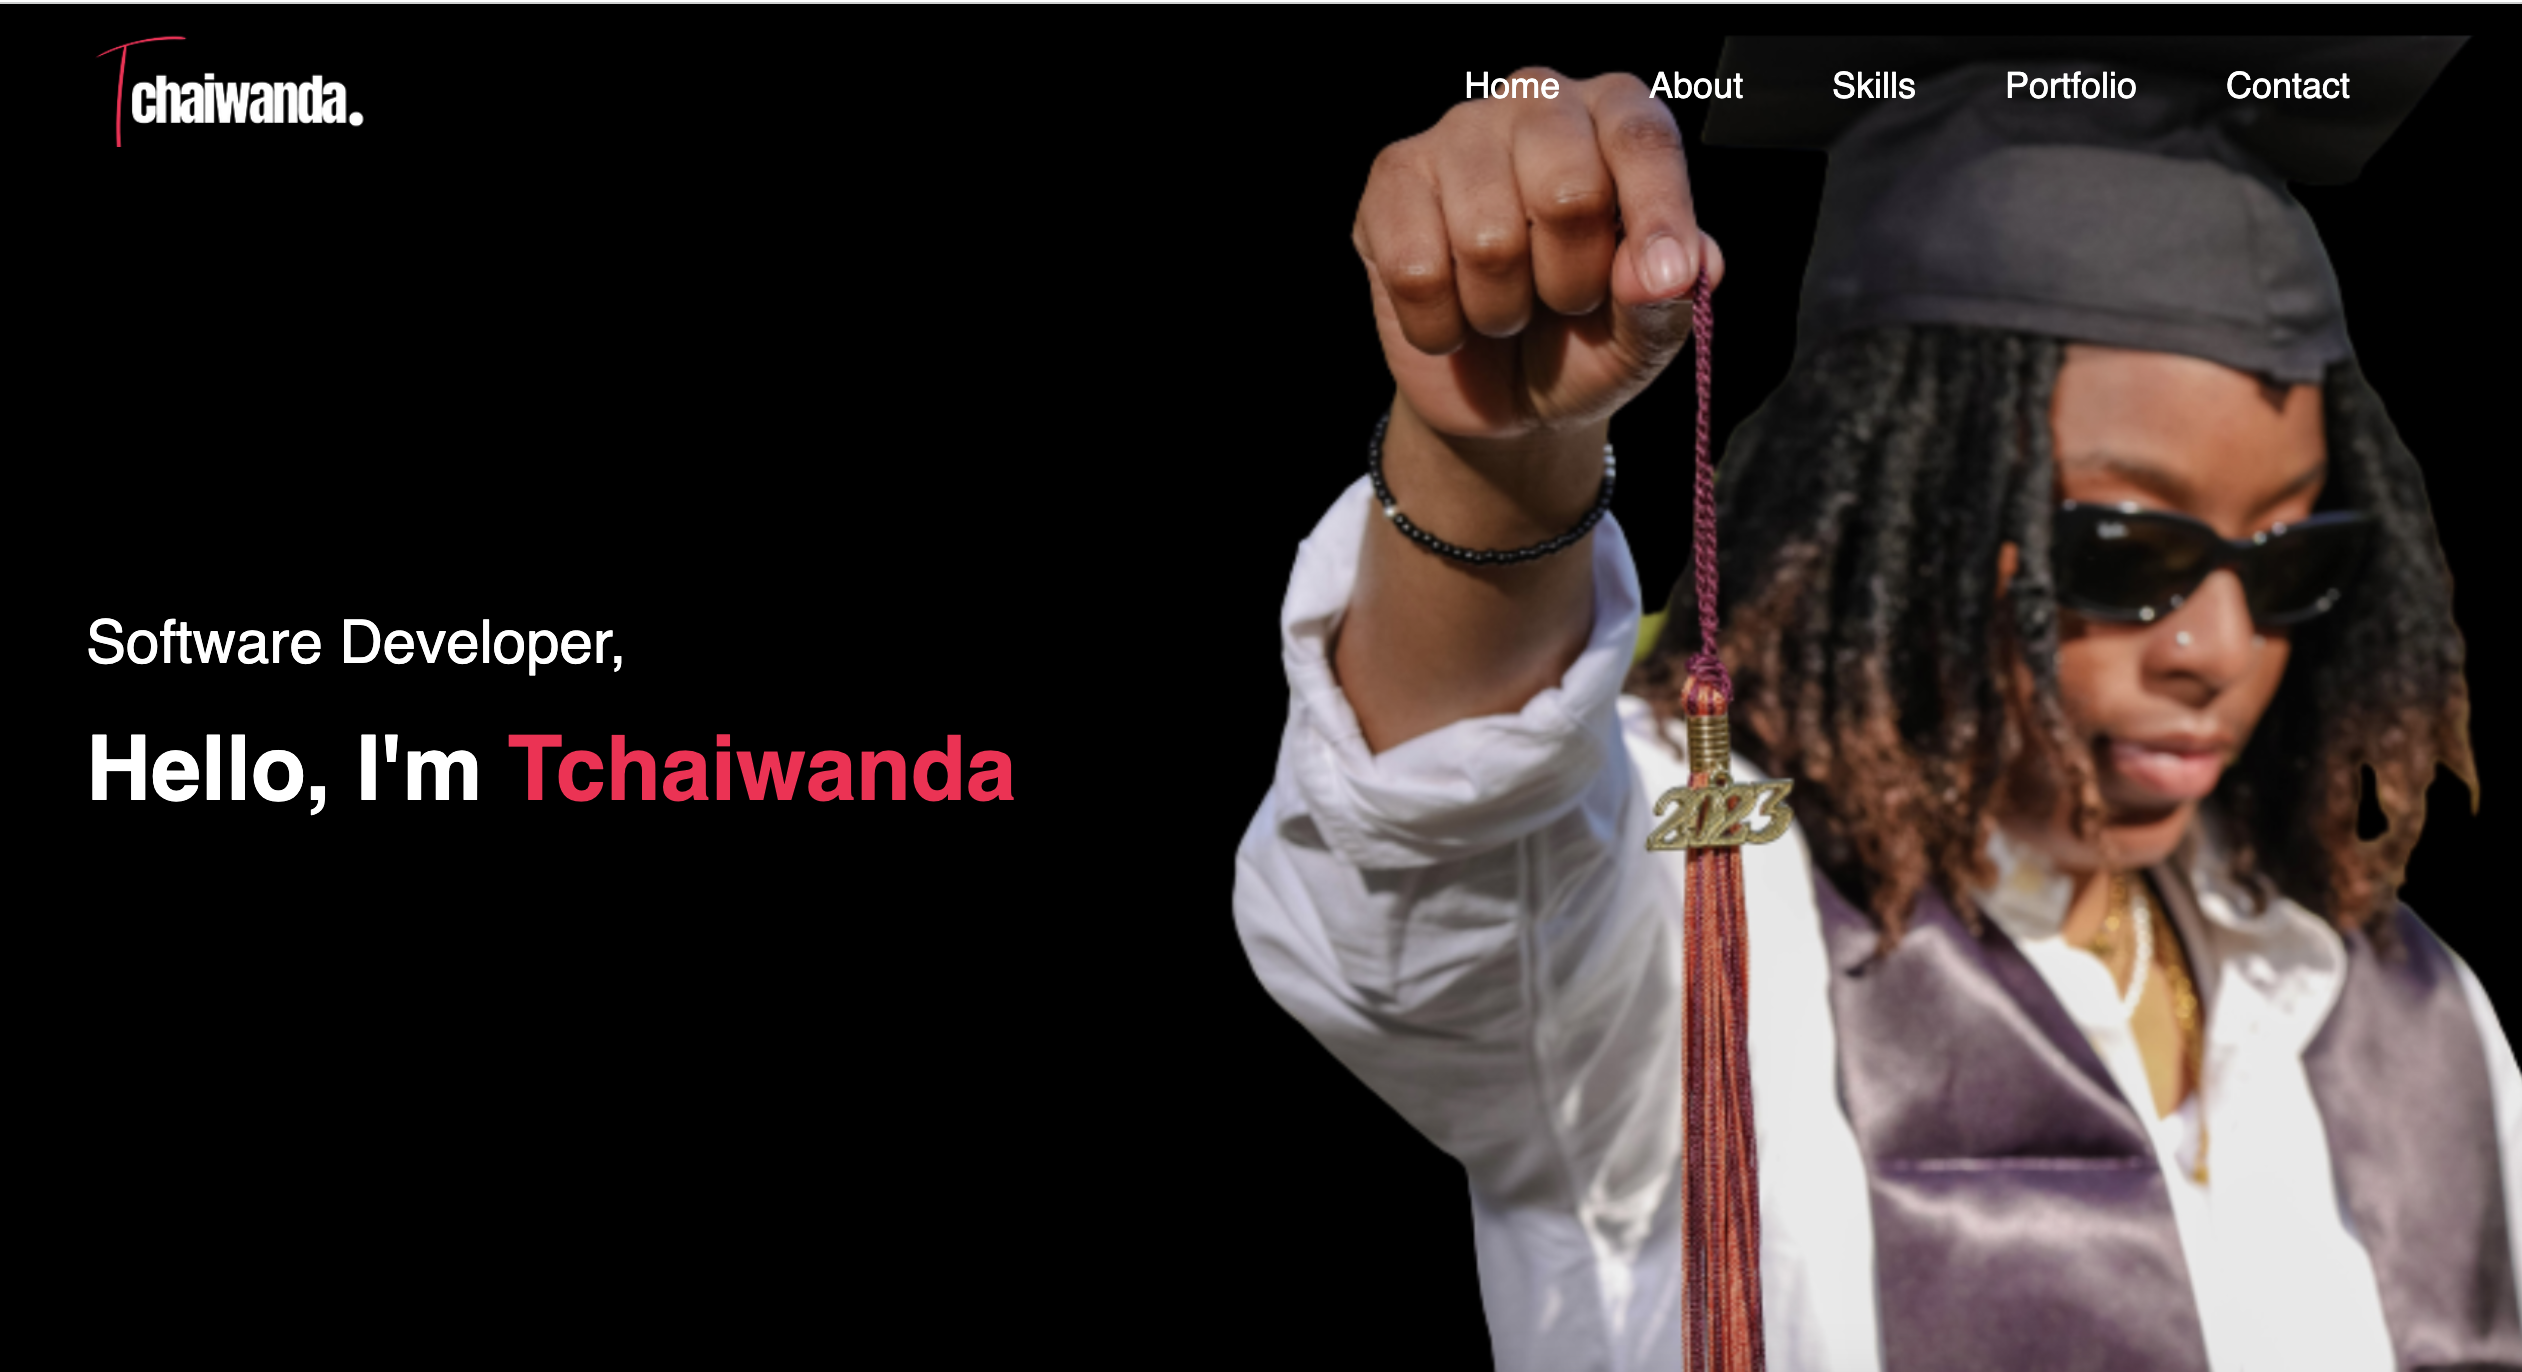
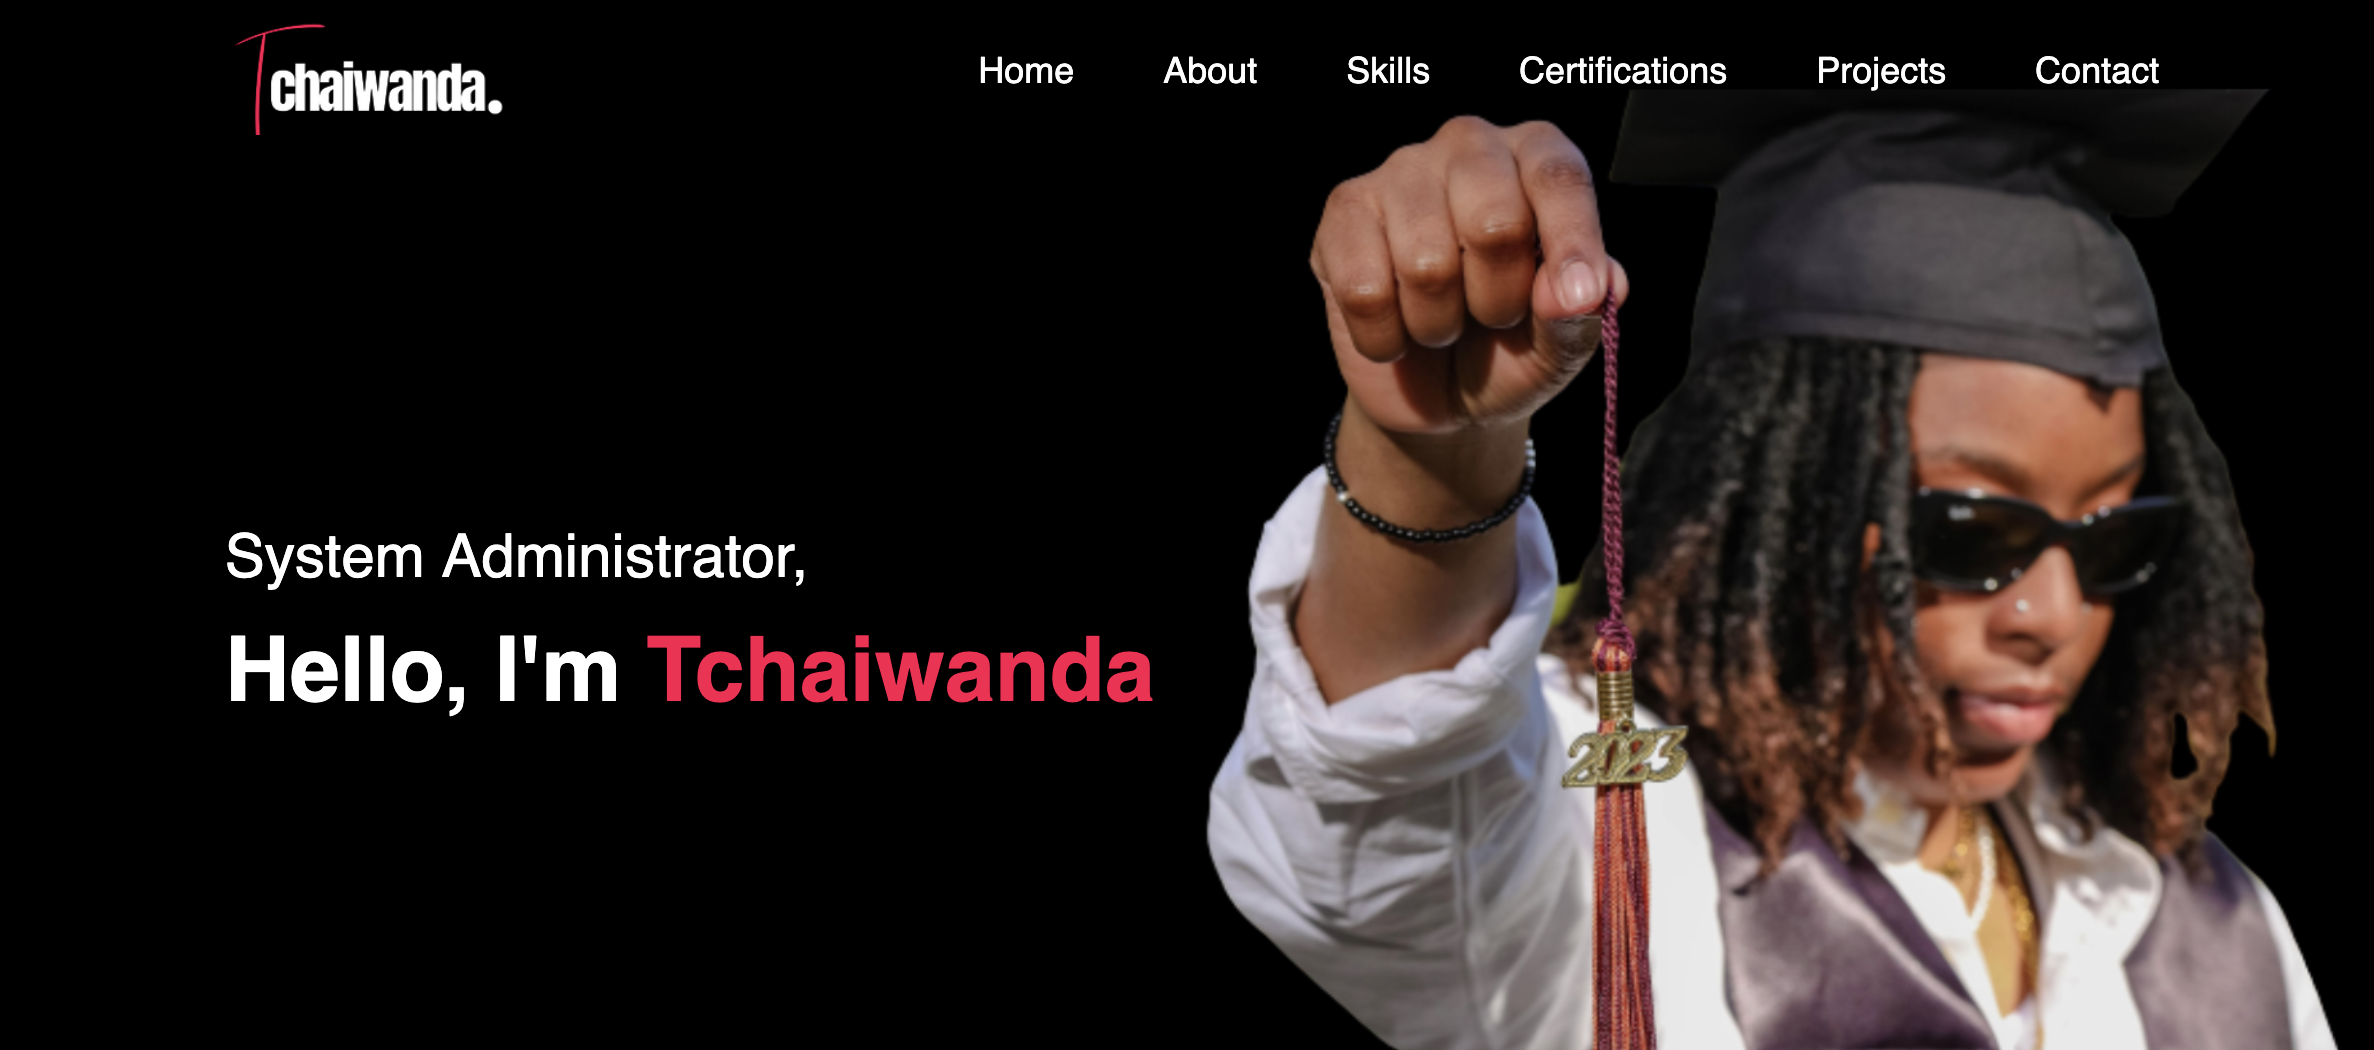
updates to projects

diff --git a/index.html b/index.html
@@ -41,7 +41,7 @@
                 <div class="about-col-2">
                     <h1 class="sub-title">About Me</h1>
                     <p>
-                        System Administrator with 4+ years in IT and a growing specialization in cybersecurity.
+                        System Administrator/ Cybersecurity Enthusiast with 4+ years in IT and a growing specialization in cybersecurity.
                         Experienced in managing Active Directory, firewalls, and endpoint protection.
                         Currently building hands-on skills in threat detection, SIEM, and ethical hacking.
                         Eager to contribute to a SOC team and grow within a security-focused role.
@@ -144,27 +144,40 @@
             </div>
           </div>
     
-          <!-- Project Card: README Generator -->
-          <div class="work" onclick="openModal('modal-readme')">
-            <img src="images/work-3.png" alt="README Generator">
-            <div class="layer">
-              <h3>README Generator</h3>
-              <p>CLI app that auto-generates professional README.md files for your repos.</p>
-            </div>
-          </div>
-    
+        <!-- Project Card: Wi-Fi Security Lab -->
+        <div class="work" onclick="openModal('modal-wifi')">
+          <img src="images/wifi-lab.png" alt="Wi-Fi Security Lab">
+          <div class="layer">
+          <h3>Wi-Fi Security Lab with ESP8266</h3>
+          <p>Built a wireless lab using ESP8266 Deauther firmware to simulate Wi-Fi attacks and test defenses.</p>
+        </div>
+        </div>
         </div>
     
         <a href="https://github.com/tchaiwanda?tab=repositories" class="btn">See more</a>
       </div>
     
       <!-- 🔍 Modal Templates -->
+
+    
+      <div id="modal-wifi" class="modal">
+        <div class="modal-content">
+          <span class="close" onclick="closeModal('modal-wifi')">&times;</span>
+          <h2>Wi-Fi Security Lab with ESP8266 Deauther</h2>
+          <p>
+            This project documents a hands-on wireless security lab using an ESP8266 devboard running Spacehuhn's Deauther firmware. 
+            The goal was to explore Wi-Fi attacks and defenses in a safe, isolated environment for cybersecurity learning.
+          </p>
+          <a href="https://github.com/tchaiwanda/wifi-security-lab" target="_blank">View on GitHub</a>
+        </div>
+      </div> 
+      
       <div id="modal-soc" class="modal">
         <div class="modal-content">
           <span class="close" onclick="closeModal('modal-soc')">&times;</span>
           <h2>Virtual SOC Lab Simulation</h2>
           <p>Built a virtual SOC lab using Kali Linux and Wireshark to simulate cyberattacks and responses. Practiced exploitation, threat hunting, and packet analysis in a secure environment.</p>
-          <a href="https://github.com/tchaiwanda/SOC-Lab" target="_blank">View on GitHub</a>
+          <a href="https://github.com/tchaiwanda/Virtual-SOC-Lab" target="_blank">View on GitHub</a>
         </div>
       </div>
     
@@ -173,7 +186,7 @@
           <span class="close" onclick="closeModal('modal-net')">&times;</span>
           <h2>Network Infrastructure & Threat Analysis Lab</h2>
           <p>Simulated enterprise networking by configuring virtual routers, DNS, and firewalls. Identified vulnerabilities and practiced system monitoring techniques.</p>
-          <a href="https://github.com/tchaiwanda/NetworkLab" target="_blank">View on GitHub</a>
+          <a href="https://github.com/tchaiwanda?tab=repositories" target="_blank">View on GitHub</a>
         </div>
       </div>
     
@@ -182,7 +195,7 @@
           <span class="close" onclick="closeModal('modal-portscanner')">&times;</span>
           <h2>Python-Based Port Scanner</h2>
           <p>Created a custom Python tool to scan open ports and enumerate services. Integrated Nmap for deeper insights, showcasing offensive security skills.</p>
-          <a href="https://github.com/tchaiwanda/PortScanner" target="_blank">View on GitHub</a>
+          <a href="https://github.com/tchaiwanda/Port_Scanner" target="_blank">View on GitHub</a>
         </div>
       </div>
     
@@ -191,7 +204,7 @@
           <span class="close" onclick="closeModal('modal-recipe')">&times;</span>
           <h2>vSphere Snapshot Automation</h2>
           <p>Script to manage vSphere environments efficiently using PowerShell and PowerCLI.</p>
-          <a href="https://tchaiwanda.github.io/RandomRecipeGenerator/" target="_blank">View Live</a>
+          <a href="https://github.com/tchaiwanda?tab=repositories" target="_blank">View Live</a>
         </div>
       </div>
     
@@ -203,17 +216,7 @@
           <a href="https://github.com/dmcaulay97/Vibez" target="_blank">View on GitHub</a>
         </div>
       </div>
-    
-      <div id="modal-readme" class="modal">
-        <div class="modal-content">
-          <span class="close" onclick="closeModal('modal-readme')">&times;</span>
-          <h2>README Generator</h2>
-          <p>Generates professional README files via command line prompts. Useful for developers to quickly document projects.</p>
-          <a href="https://github.com/tchaiwanda/READMEGenerator" target="_blank">View on GitHub</a>
-        </div>
-      </div>
-    </div>
-    
+         
 <!--------------------------contact-------------->
 <section id="contact">
   <div class="contact-container">

diff --git a/README.md b/README.md
@@ -33,6 +33,7 @@ Connect with me on [LinkedIn](https://www.linkedin.com/in/tchaiwanda)
 
 ## Screenshots
 
+![Screenshot](/images/portfolio3.png)
 ![Screenshot](/images/portfolio1.png)
 ![Screenshot](/images/portfolio4.png)
 ![Screenshot](/images/portfolio2.png)
